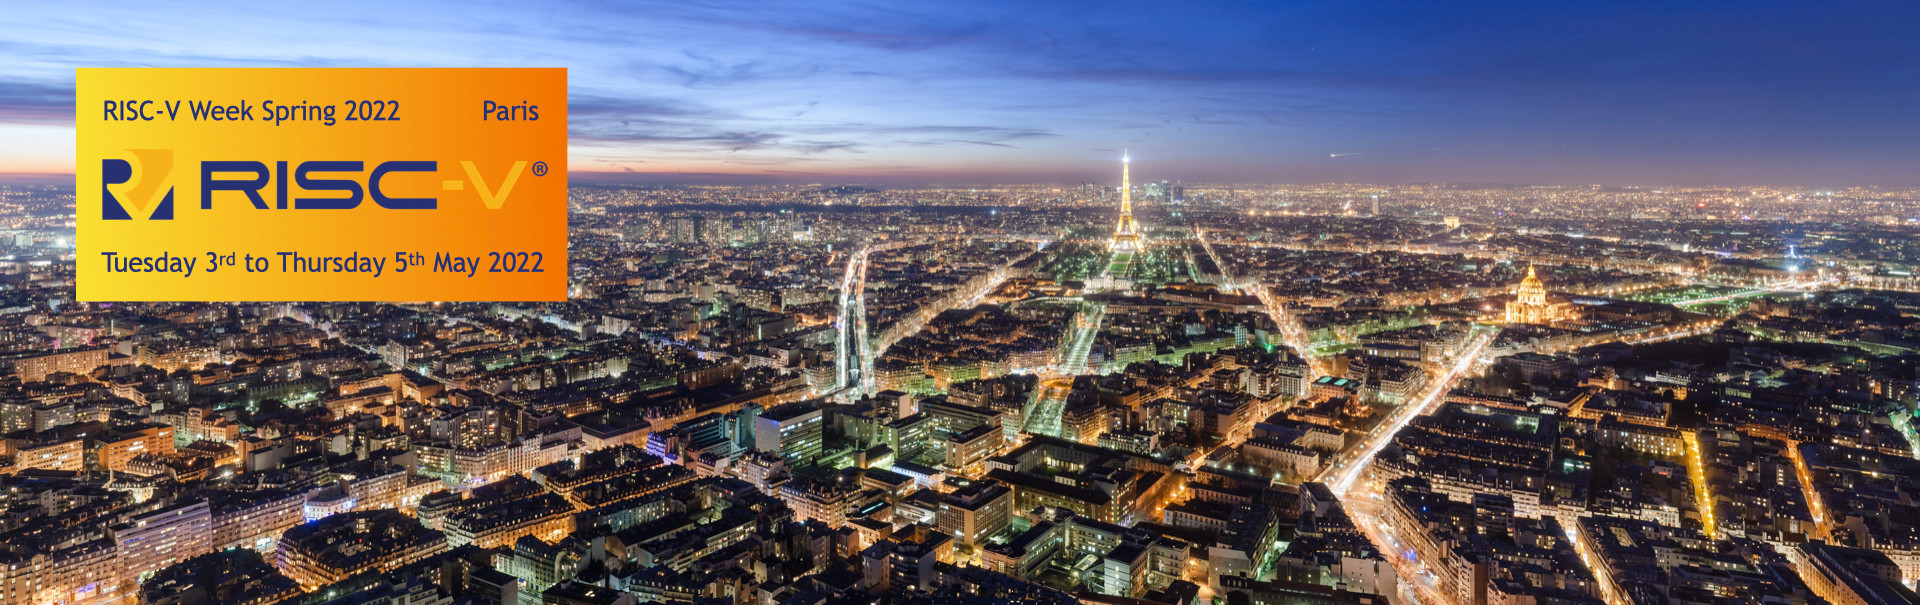
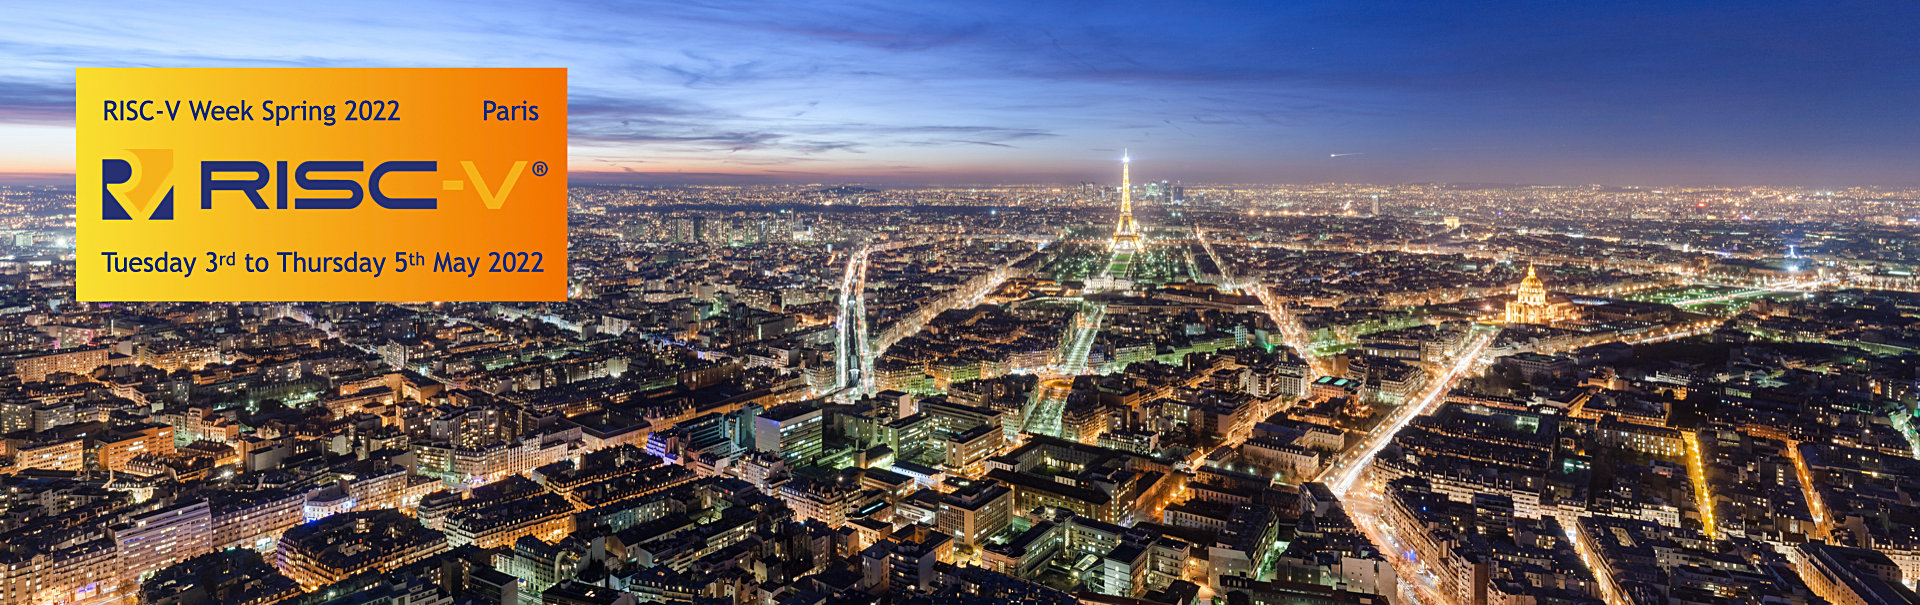
Auto-commit: updated from source repo at 41b77edf.

diff --git a/booths.html b/booths.html
@@ -43,7 +43,7 @@ H3        { color: #0a6b7c }
 </style>
 
 <p style="text-align: center">
-  <img src="media/RISC-V-Week-2022-05.png" alt="RISC-V Week 2022 Banner" style="width: 90%;" />
+  <img src="media/RISC-V-Week-2022-05.jpg" alt="RISC-V Week 2022 Banner" style="width: 90%;" />
 </p>
 <H1 style="text-align: center">
   Two RISC-V and open-source hardware events over 3 days!

diff --git a/cfp.html b/cfp.html
@@ -43,7 +43,7 @@ H3        { color: #0a6b7c }
 </style>
 
 <p style="text-align: center">
-  <img src="media/RISC-V-Week-2022-05.png" alt="RISC-V Week 2022 Banner" style="width: 90%;" />
+  <img src="media/RISC-V-Week-2022-05.jpg" alt="RISC-V Week 2022 Banner" style="width: 90%;" />
 </p>
 <H1 style="text-align: center">
   Two RISC-V and open-source hardware events over 3 days!

diff --git a/index.html b/index.html
@@ -43,7 +43,7 @@ H3        { color: #0a6b7c }
 </style>
 
 <p style="text-align: center">
-  <img src="media/RISC-V-Week-2022-05.png" alt="RISC-V Week 2022 Banner" style="width: 90%;" />
+  <img src="media/RISC-V-Week-2022-05.jpg" alt="RISC-V Week 2022 Banner" style="width: 90%;" />
 </p>
 <H1 style="text-align: center">
   Two RISC-V and open-source hardware events over 3 days!

diff --git a/organizers-riscv-meetings-table.html b/organizers-riscv-meetings-table.html
@@ -43,7 +43,7 @@ H3        { color: #0a6b7c }
 </style>
 
 <p style="text-align: center">
-  <img src="media/RISC-V-Week-2022-05.png" alt="RISC-V Week 2022 Banner" style="width: 90%;" />
+  <img src="media/RISC-V-Week-2022-05.jpg" alt="RISC-V Week 2022 Banner" style="width: 90%;" />
 </p>
 <H1 style="text-align: center">
   Two RISC-V and open-source hardware events over 3 days!

diff --git a/program-riscv-international-day.html b/program-riscv-international-day.html
@@ -43,7 +43,7 @@ H3        { color: #0a6b7c }
 </style>
 
 <p style="text-align: center">
-  <img src="media/RISC-V-Week-2022-05.png" alt="RISC-V Week 2022 Banner" style="width: 90%;" />
+  <img src="media/RISC-V-Week-2022-05.jpg" alt="RISC-V Week 2022 Banner" style="width: 90%;" />
 </p>
 <H1 style="text-align: center">
   Two RISC-V and open-source hardware events over 3 days!

diff --git a/program-riscv-meetings.html b/program-riscv-meetings.html
@@ -43,7 +43,7 @@ H3        { color: #0a6b7c }
 </style>
 
 <p style="text-align: center">
-  <img src="media/RISC-V-Week-2022-05.png" alt="RISC-V Week 2022 Banner" style="width: 90%;" />
+  <img src="media/RISC-V-Week-2022-05.jpg" alt="RISC-V Week 2022 Banner" style="width: 90%;" />
 </p>
 <H1 style="text-align: center">
   Two RISC-V and open-source hardware events over 3 days!

diff --git a/program-table-03-30.html b/program-table-03-30.html
@@ -43,7 +43,7 @@ H3        { color: #0a6b7c }
 </style>
 
 <p style="text-align: center">
-  <img src="media/RISC-V-Week-2022-05.png" alt="RISC-V Week 2022 Banner" style="width: 90%;" />
+  <img src="media/RISC-V-Week-2022-05.jpg" alt="RISC-V Week 2022 Banner" style="width: 90%;" />
 </p>
 <H1 style="text-align: center">
   Two RISC-V and open-source hardware events over 3 days!

diff --git a/program-table-03-31.html b/program-table-03-31.html
@@ -43,7 +43,7 @@ H3        { color: #0a6b7c }
 </style>
 
 <p style="text-align: center">
-  <img src="media/RISC-V-Week-2022-05.png" alt="RISC-V Week 2022 Banner" style="width: 90%;" />
+  <img src="media/RISC-V-Week-2022-05.jpg" alt="RISC-V Week 2022 Banner" style="width: 90%;" />
 </p>
 <H1 style="text-align: center">
   Two RISC-V and open-source hardware events over 3 days!

diff --git a/program-table-04-01.html b/program-table-04-01.html
@@ -43,7 +43,7 @@ H3        { color: #0a6b7c }
 </style>
 
 <p style="text-align: center">
-  <img src="media/RISC-V-Week-2022-05.png" alt="RISC-V Week 2022 Banner" style="width: 90%;" />
+  <img src="media/RISC-V-Week-2022-05.jpg" alt="RISC-V Week 2022 Banner" style="width: 90%;" />
 </p>
 <H1 style="text-align: center">
   Two RISC-V and open-source hardware events over 3 days!

diff --git a/registration.html b/registration.html
@@ -43,7 +43,7 @@ H3        { color: #0a6b7c }
 </style>
 
 <p style="text-align: center">
-  <img src="media/RISC-V-Week-2022-05.png" alt="RISC-V Week 2022 Banner" style="width: 90%;" />
+  <img src="media/RISC-V-Week-2022-05.jpg" alt="RISC-V Week 2022 Banner" style="width: 90%;" />
 </p>
 <H1 style="text-align: center">
   Two RISC-V and open-source hardware events over 3 days!

diff --git a/speakers-openhw-day.html b/speakers-openhw-day.html
@@ -43,7 +43,7 @@ H3        { color: #0a6b7c }
 </style>
 
 <p style="text-align: center">
-  <img src="media/RISC-V-Week-2022-05.png" alt="RISC-V Week 2022 Banner" style="width: 90%;" />
+  <img src="media/RISC-V-Week-2022-05.jpg" alt="RISC-V Week 2022 Banner" style="width: 90%;" />
 </p>
 <H1 style="text-align: center">
   Two RISC-V and open-source hardware events over 3 days!

diff --git a/speakers-riscv-meetings.html b/speakers-riscv-meetings.html
@@ -43,7 +43,7 @@ H3        { color: #0a6b7c }
 </style>
 
 <p style="text-align: center">
-  <img src="media/RISC-V-Week-2022-05.png" alt="RISC-V Week 2022 Banner" style="width: 90%;" />
+  <img src="media/RISC-V-Week-2022-05.jpg" alt="RISC-V Week 2022 Banner" style="width: 90%;" />
 </p>
 <H1 style="text-align: center">
   Two RISC-V and open-source hardware events over 3 days!
